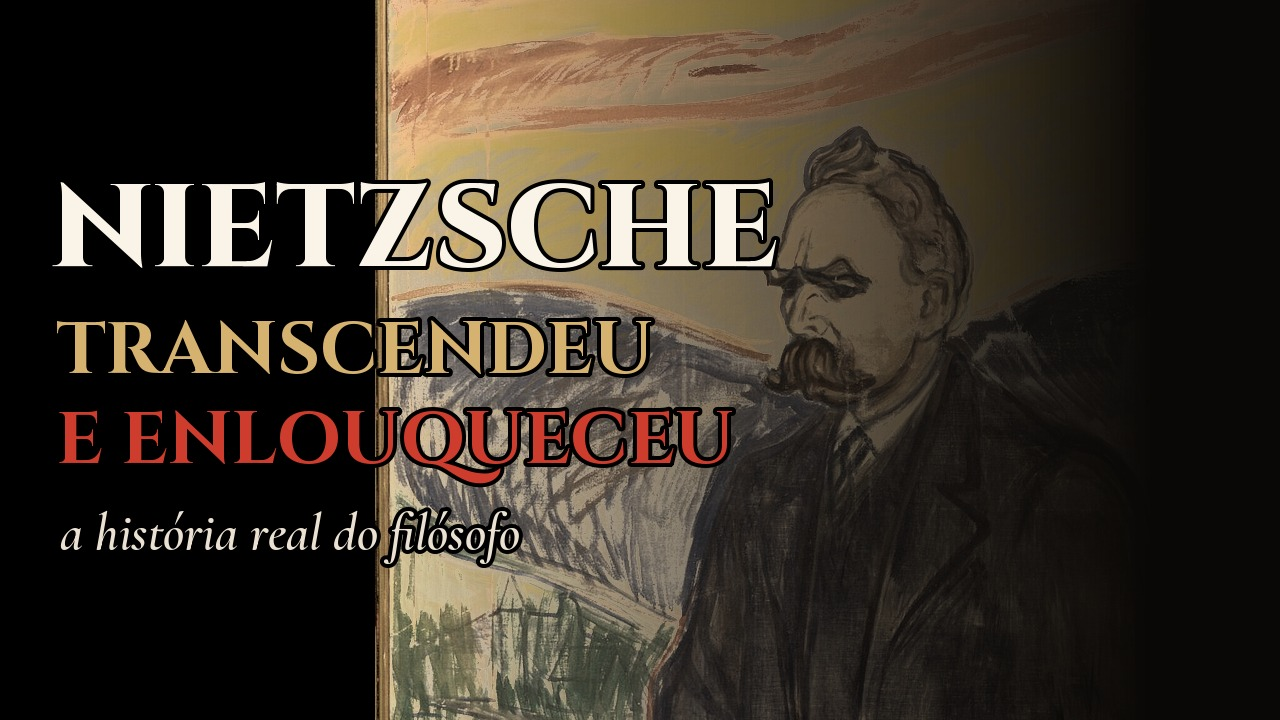
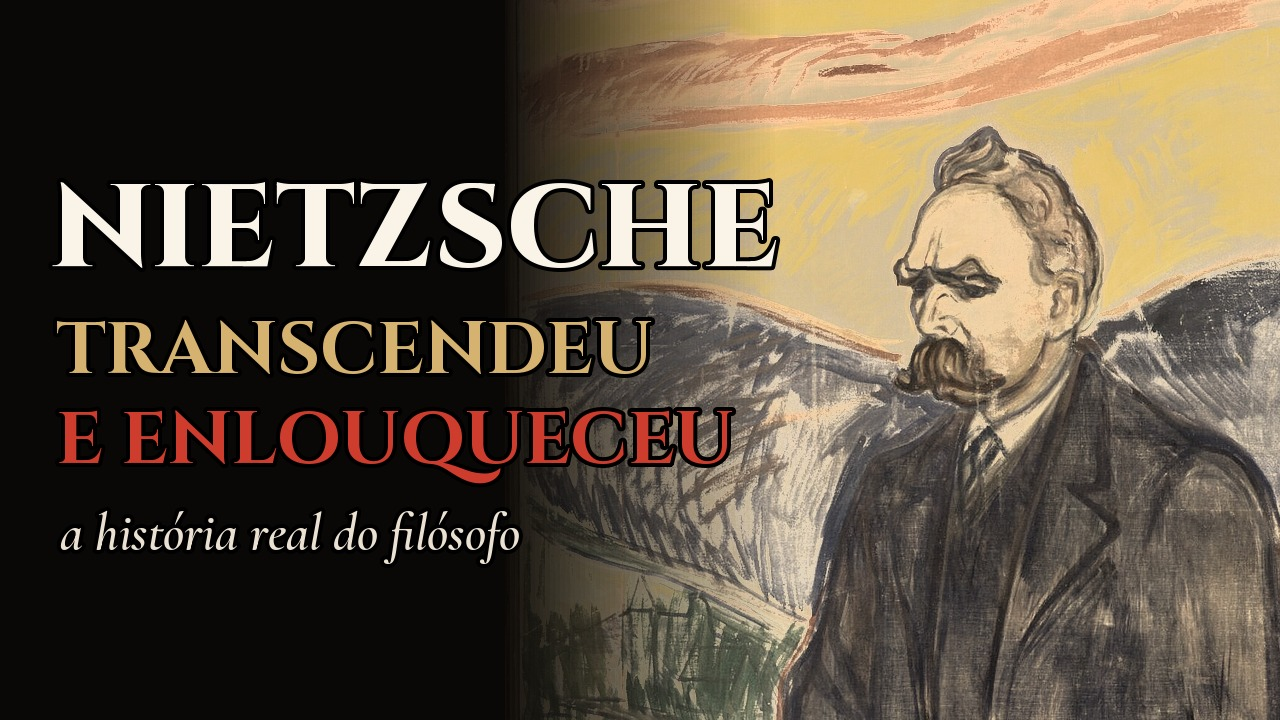
Fix thumbnail fade, remove subtitle overlaps, add README
Claude-Session: https://claude.ai/code/session_018g98yWQq153msi824cVKd5

diff --git a/nietzsche-video/render.py b/nietzsche-video/render.py
@@ -281,18 +281,18 @@ def main():
     with ProcessPoolExecutor(max(1, (os.cpu_count() or 2) // 2)) as ex:
         metas = list(ex.map(render_scene, range(len(SCENES)), SCENES))
     total = sum(m["total"] for m in metas); N = int(round(total * SR)) + SR
-    voice = np.zeros(N, np.float32); srt, n_srt, t = [], 1, 0.0
+    voice = np.zeros(N, np.float32); srt, n_srt, t = [], 1, 0.0; last_end = 0.0
     for m in metas:
         a = load_wav(m["mp3"]); i = int(round((t + m["lead"]) * SR))
         voice[i:i + len(a)] += a[:N - i]
         for b in m["bounds"]:
             chunks = wrap_chunks(b["text"]); L = sum(len(c) for c in chunks)
-            st = t + m["lead"] + b["start"]; span = b["end"] - b["start"]
+            st = max(t + m["lead"] + b["start"], last_end); span = t + m["lead"] + b["end"] - st
             for c in chunks:
                 d = span * len(c) / L
                 half = len(c) // 2; sp = c.rfind(" ", 0, half + 10) if len(c) > 42 else -1
                 txt = c[:sp] + "\n" + c[sp + 1:] if sp > 0 else c
-                srt.append(f"{n_srt}\n{srt_time(st)} --> {srt_time(st + d)}\n{txt}\n"); n_srt += 1; st += d
+                srt.append(f"{n_srt}\n{srt_time(st)} --> {srt_time(st + d)}\n{txt}\n"); n_srt += 1; st += d; last_end = st
         t += m["total"]
     # trilha com ducking sob a voz
     mus = music(N)

diff --git a/nietzsche-video/extras.py b/nietzsche-video/extras.py
@@ -12,11 +12,11 @@ src = Image.open(CR["Edvard Munch - Friedrich Nietzsche - MM.M.00724 - Munch Mus
 # retrato de Munch à direita, ocupando a altura toda, rosto em destaque
 crop = src.crop((0, int(src.height * 0.12), src.width, int(src.height * 0.62)))
 ph = H; pw = int(crop.width * ph / crop.height)
-img = Image.new("RGB", (W, H), (12, 10, 8)); img.paste(crop.resize((pw, ph), Image.LANCZOS), (W - pw + 40, 0))
+img = Image.new("RGB", (W, H), (12, 10, 8)); img.paste(crop.resize((pw, ph), Image.LANCZOS), (W - pw + 170, 0))
 g = ImageOps.colorize(ImageOps.grayscale(img), (10, 8, 6), (120, 90, 60), (250, 225, 185))
 img = ImageEnhance.Contrast(Image.blend(g, img, 0.35)).enhance(1.25)
-grad = Image.linear_gradient("L").rotate(90).resize((W, H))  # 255 à esquerda -> escurece o lado do texto
-mask = grad.point(lambda v: int(max(0, min(255, (v - 70) * 1.6))))
+grad = ImageOps.mirror(Image.linear_gradient("L").rotate(90).resize((W, H)))  # 255 à esquerda -> escurece o lado do texto
+mask = grad.point(lambda v: int(max(0, min(255, (v - 100) * 4.5))))
 img = Image.composite(Image.new("RGB", (W, H), (10, 8, 6)), img, mask)
 d = ImageDraw.Draw(img)
 def outline(xy, t, f, fill):

diff --git a/nietzsche-video/README.md b/nietzsche-video/README.md
@@ -1,0 +1,19 @@
+# Nietzsche — o homem que transcendeu e enlouqueceu
+
+Vídeo de ~13min38s (1080p) para canal de filosofia.
+
+## Arquivos prontos (`saida/`)
+- `nietzsche_o_homem_que_transcendeu_e_enlouqueceu.mp4` — vídeo final (não vai para o git por causa do tamanho)
+- `nietzsche_legendas_ptBR.srt` — legendas para subir no YouTube
+- `thumbnail.jpg` — miniatura 1280x720
+- `descricao_youtube.txt` — título, descrição, capítulos e créditos das imagens
+
+## Como regenerar
+```
+pip install edge-tts pillow numpy        # e ffmpeg instalado
+python3 fetch_images.py work/img         # imagens do Wikimedia Commons + licenças
+python3 tts.py work/audio                # narração (voz neural pt-BR)
+python3 render.py work saida             # cenas, trilha, legendas e vídeo final
+python3 extras.py work saida             # thumbnail e descrição
+```
+O texto da narração e a ordem das imagens ficam em `roteiro.py`.
